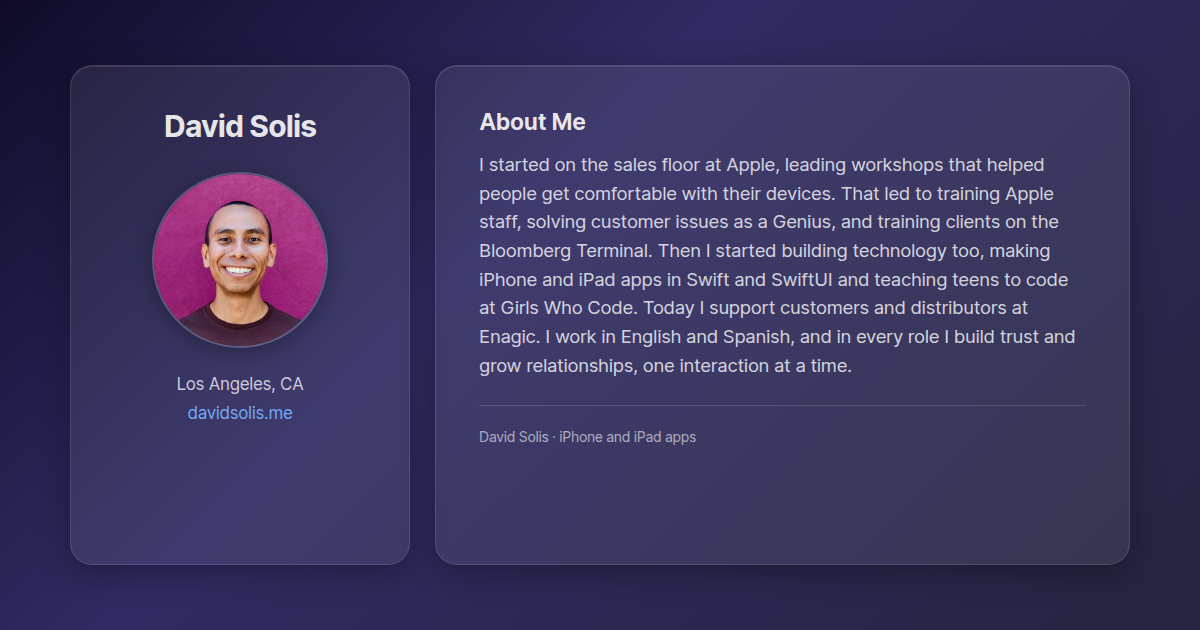
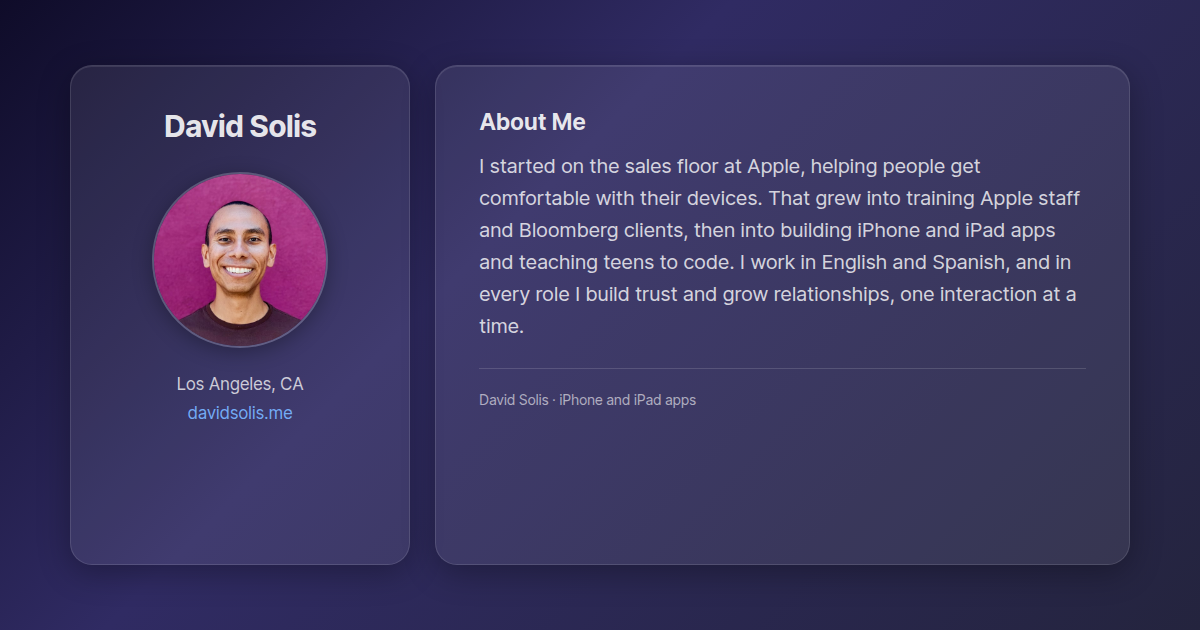
Remove repetition across About Me, How I Work, Experience, and Skills (#33)

Changed region(s): [[0.4008, 0.2413, 0.8942, 0.5429], [0.4008, 0.573, 0.7092, 0.7238]]

diff --git a/components/Experience.js b/components/Experience.js
@@ -14,8 +14,9 @@ export default function Experience() {
             transparently to management for resolution.
           </li>
           <li>
-            Manage customer and distributor accounts and support requests across
-            ERP, CRM, and ticketing systems.
+            Support customers and distributors by email, phone, and live chat,
+            managing their accounts and requests across ERP, CRM, and ticketing
+            systems.
           </li>
           <li>
             Build and maintain sales and performance reports for the accounting,
@@ -24,10 +25,6 @@ export default function Experience() {
           <li>
             Collaborate with cross-functional teams to verify distributor
             information, review commission reports, and reconcile accounts.
-          </li>
-          <li>
-            Listen to customers and distributors by email, phone, and live chat,
-            and solve the real need behind each request.
           </li>
         </ul>
       </div>
@@ -42,9 +39,8 @@ export default function Experience() {
             Arduino C, and version control.
           </li>
           <li>
-            Taught Agile development, debugging, and teamwork in a class where
-            asking for help felt welcome, and helped students prepare for
-            college.
+            Taught Agile development, debugging, and teamwork, made asking for
+            help feel welcome, and helped students prepare for college.
           </li>
         </ul>
       </div>
@@ -88,9 +84,8 @@ export default function Experience() {
             Leader on the Floor breaks, and ran One to One trainings.
           </li>
           <li>
-            Solved customer issues end to end by listening first and offering
-            real options, earning a high Net Promoter Score as a technician in a
-            Training Store.
+            Held a high Net Promoter Score (NPS) as a technician in a Training
+            Store by listening first and solving customer issues end to end.
           </li>
         </ul>
       </div>
@@ -105,8 +100,8 @@ export default function Experience() {
           </li>
           <li>
             Started an employee mentorship program that raised product and
-            technical knowledge market-wide, earning the market the Q2 2013 Most
-            Improved Net Promoter Score.
+            technical knowledge market-wide, helping the market win the Q2 2013
+            Most Improved NPS.
           </li>
         </ul>
       </div>
@@ -116,8 +111,8 @@ export default function Experience() {
         <span>2011 – 2013</span>
         <ul>
           <li>
-            Led the in-store workshop team, earning the store a Net Promoter
-            Score of 98 for three quarters.
+            Led the in-store workshop team, earning the store an NPS of 98 for
+            three quarters.
           </li>
           <li>
             Worked overnight on the Visual Merchandising Team, setting up

diff --git a/components/AboutMe.js b/components/AboutMe.js
@@ -5,14 +5,11 @@ export default function AboutMe() {
     <section id="about-me" className={styles.card}>
       <h2>About Me</h2>
       <p>
-        I started on the sales floor at Apple, leading workshops that helped
-        people get comfortable with their devices. That led to training Apple
-        staff, solving customer issues as a Genius, and training clients on the
-        Bloomberg Terminal. Then I started building technology too, making
-        iPhone and iPad apps in Swift and SwiftUI and teaching teens to code at
-        Girls Who Code. Today I support customers and distributors at Enagic. I
-        work in English and Spanish, and in every role I build trust and grow
-        relationships, one interaction at a time.
+        I started on the sales floor at Apple, helping people get comfortable
+        with their devices. That grew into training Apple staff and Bloomberg
+        clients, then into building iPhone and iPad apps and teaching teens to
+        code. I work in English and Spanish, and in every role I build trust and
+        grow relationships, one interaction at a time.
       </p>
     </section>
   )

diff --git a/components/HowIWork.js b/components/HowIWork.js
@@ -30,8 +30,8 @@ export default function HowIWork() {
           what matters stand out.
         </li>
         <li>
-          <strong>Lead by example.</strong> I understand what I ask my team to
-          do, and I make learning and asking for help feel welcome.
+          <strong>Lead by example.</strong> I show genuine excitement to learn,
+          and I understand what I ask my team to do.
         </li>
       </ul>
     </section>

diff --git a/components/Skills.js b/components/Skills.js
@@ -13,7 +13,6 @@ export default function Skills() {
           Workspace
         </li>
         <li>Troubleshooting Mac, iPhone, and iPad hardware and software</li>
-        <li>Teaching new tools to staff, clients, and students</li>
         <li>Staying calm under pressure and coordinating a team</li>
       </ul>
     </section>
